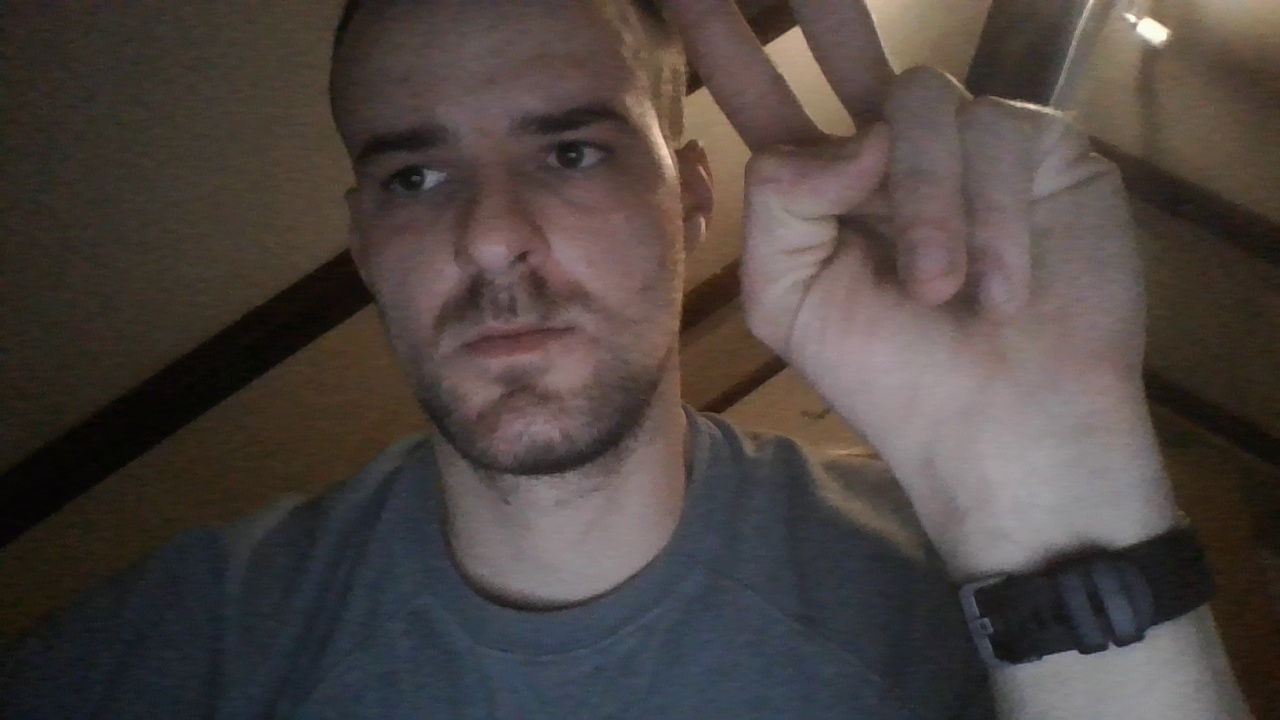
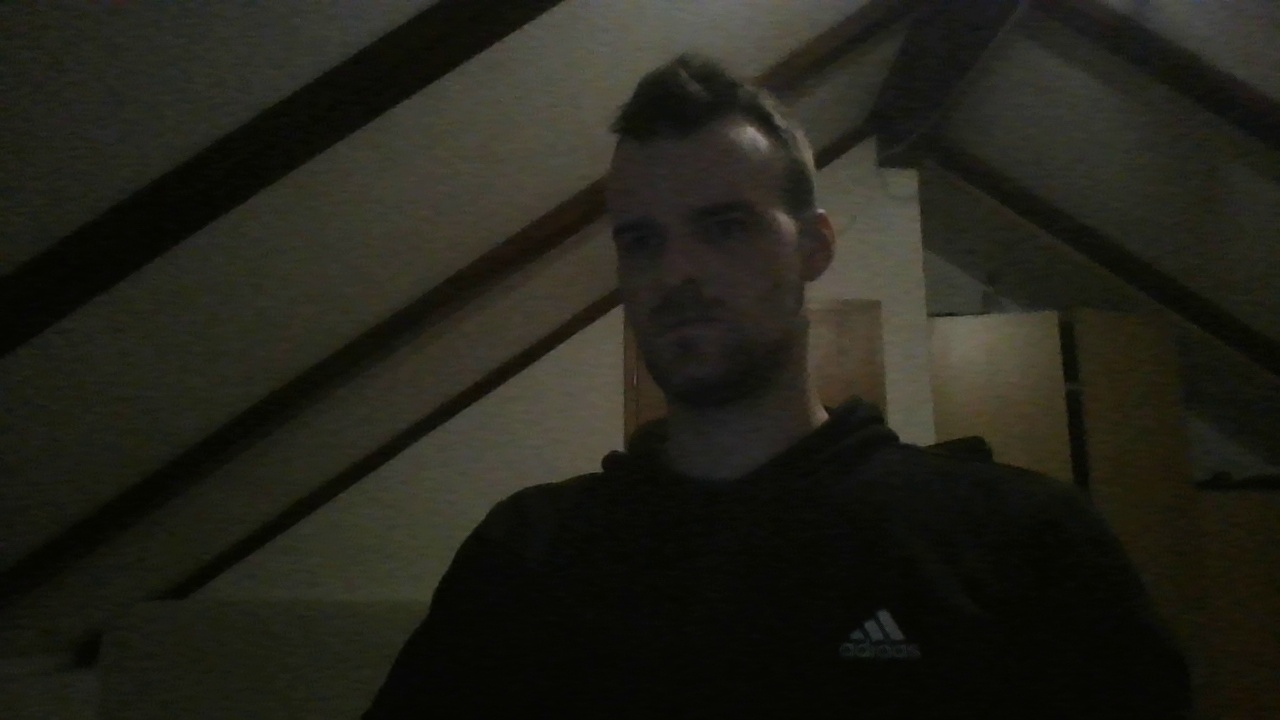
radi sve s web kamerom

diff --git a/camera.py b/camera.py
@@ -2,13 +2,15 @@
 from PyQt5.QtWidgets import QMainWindow
 from PyQt5 import uic, QtGui
 from PyQt5 import QtWidgets
-from PyQt5.QtGui import QPixmap
+from PyQt5.QtGui import QPixmap, QImage
+from PyQt5.QtCore import QThread, pyqtSignal, Qt
 import json
 from PIL import Image
 
 import cv2
 import os
 import keyboard
+import queue
 
 # ucitavanje config.jsona i metanje u varijable da se lakse koristi
 with open('config.json', 'r') as f:
@@ -31,8 +33,17 @@ class CameraUi(QMainWindow):
         self.cardSlot1 = self.findChild(QtWidgets.QLabel, 'img1')
         self.cardSlot2 = self.findChild(QtWidgets.QLabel, 'img2')
         self.cardSlot3 = self.findChild(QtWidgets.QLabel, 'img3')
+        self.streamLabel = self.findChild(QtWidgets.QLabel, 'stream')
 
         self.pushButton.clicked.connect(self.changeToPrintUi)
+
+    def update_image(self, frame):
+        rgb_frame = cv2.cvtColor(frame, cv2.COLOR_BGR2RGB)
+        h, w, ch = rgb_frame.shape
+        qImg = QImage(rgb_frame.data, w, h, ch*w, QImage.Format_RGB888)
+        pixmap = QPixmap.fromImage(qImg)
+        self.streamLabel.setPixmap(pixmap.scaled(
+            self.streamLabel.size(), Qt.KeepAspectRatio))
 
     def changeToPrintUi(self):
         self.parent().setCurrentIndex(3)
@@ -50,8 +61,14 @@ class CameraUi(QMainWindow):
 
         kartica.save('res/session/gotovaKartica.png')
 
+    # kad se prikaze ekran
     def showEvent(self, a0: QtGui.QShowEvent) -> None:
         self.count = 1
+
+        # pokreni strim
+        self.thread = CameraThread()
+        self.thread.image_data.connect(self.update_image)
+        self.thread.start()
 
         keyboard.add_hotkey('k', lambda: self.slikaj())
 
@@ -59,11 +76,16 @@ class CameraUi(QMainWindow):
 
     def slikaj(self):
 
-        # Set up camera
-        cap = cv2.VideoCapture(0)
+        # Stop the camera capture thread
+        self.thread.stop()
+        self.thread.wait()
 
-        # Capture image from camera
-        ret, frame = cap.read()
+        # Capture a single frame from the camera
+        _, frame = cv2.VideoCapture(0).read()
+
+        # Convert the image to a QImage
+        q_image = QImage(
+            frame.data, frame.shape[1], frame.shape[0], QImage.Format_RGB888)
 
         # Save image to disk
         filename = f'res/session/slika{self.count}.jpg'
@@ -72,6 +94,7 @@ class CameraUi(QMainWindow):
         # Print message to console
         print(f'Image {self.count} saved to {filename}')
 
+        # prikaz slike na karticu
         if self.count == 1:
             img1pixmap = QPixmap('res/session/slika1.jpg')
             self.cardSlot1.setPixmap(img1pixmap)
@@ -85,6 +108,35 @@ class CameraUi(QMainWindow):
         # Increment count
         self.count += 1
 
+        # Resume the camera capture thread
+        self.thread = CameraThread()
+        self.thread.image_data.connect(self.update_image)
+        self.thread.start()
+
+        # Nakon zadnje slike
         if self.count > 3:
             keyboard.unhook_all_hotkeys()
             self.napraviKarticu(eventId)
+            self.thread.stop()
+            self.changeToPrintUi()
+
+
+class CameraThread(QThread):
+    image_data = pyqtSignal(object)
+
+    def __init__(self, parent=None):
+        super().__init__(parent)
+        self.capture = cv2.VideoCapture(0)
+        self.running = True
+
+    def stop(self):
+        self.running = False
+
+    def run(self):
+        while self.running:
+            ret, frame = self.capture.read()
+
+            if ret:
+                self.image_data.emit(frame)
+
+        self.capture.release()
